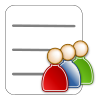
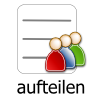
Texte in button eingefügt, wie josef das wollte

diff --git a/src-pos/com/openbravo/pos/forms/JRootApp.java b/src-pos/com/openbravo/pos/forms/JRootApp.java
@@ -31,7 +31,7 @@ import java.util.UUID;
 import javax.swing.*;
 
 import com.openbravo.pos.printer.*;
-
+import com.openbravo.pos.sales.JPanelButtons;
 import com.openbravo.beans.*;
 
 import com.openbravo.basic.BasicException;
@@ -59,6 +59,7 @@ public class JRootApp extends JPanel implements AppView {
 	private DataLogicSystem m_dlSystem;
 
 	private Properties m_propsdb = null;
+	private Properties posprops;
 	private String m_sActiveCashIndex;
 	private Date m_dActiveCashDateStart;
 	private Date m_dActiveCashDateEnd;
@@ -254,6 +255,9 @@ public class JRootApp extends JPanel implements AppView {
 		 */
 		m_jHost.setText("<html>" + m_props.getHost() + " - " + sWareHouse + "<br>" + url);
 
+		// load properties for login button size
+		posprops = m_dlSystem.getResourceAsProperties("Window.Login");
+		
 		showLogin();
 
 		return true;
@@ -446,14 +450,25 @@ public class JRootApp extends JPanel implements AppView {
 				AppUser user = (AppUser) people.get(i);
 
 				JButton btn = new JButton(new AppUserAction(user));
+				
+				//JButton btn = new JPanelButtons(new AppUserAction(user));
+				
 				btn.applyComponentOrientation(getComponentOrientation());
 				btn.setFocusPainted(false);
 				btn.setFocusable(false);
 				btn.setRequestFocusEnabled(false);
 				btn.setHorizontalAlignment(SwingConstants.LEADING);
-				btn.setMaximumSize(new Dimension(150, 50));
-				btn.setPreferredSize(new Dimension(150, 50));
-				btn.setMinimumSize(new Dimension(150, 50));
+				/**
+				 * change user login buttons size
+				 */
+//				posprops.getProperty(key, defaultValue)
+				btn.setMaximumSize(new Dimension(Integer.parseInt(posprops.getProperty("login-img-width", "150")),Integer.parseInt(posprops.getProperty("login-img-height", "50"))));
+				btn.setPreferredSize(new Dimension(Integer.parseInt(posprops.getProperty("login-img-width", "150")),Integer.parseInt(posprops.getProperty("login-img-height", "50"))));
+				btn.setMinimumSize(new Dimension(Integer.parseInt(posprops.getProperty("login-img-width", "150")),Integer.parseInt(posprops.getProperty("login-img-height", "50"))));
+				
+//				btn.setMaximumSize(new Dimension(150, 50));
+//				btn.setPreferredSize(new Dimension(150, 50));
+//				btn.setMinimumSize(new Dimension(150, 50));
 
 				jPeople.add(btn);
 			}

diff --git a/src-pos/com/openbravo/pos/sales/JPanelButtons.java b/src-pos/com/openbravo/pos/sales/JPanelButtons.java
@@ -150,7 +150,7 @@ public class JPanelButtons extends javax.swing.JPanel {
         return events.get(key);
     }
     
-    private class ConfigurationHandler extends DefaultHandler {       
+    private class ConfigurationHandler extends DefaultHandler {     
         @Override
         public void startDocument() throws SAXException {}
         @Override

diff --git a/src-pos/com/openbravo/pos/sales/restaurant/Place.java b/src-pos/com/openbravo/pos/sales/restaurant/Place.java
@@ -19,6 +19,7 @@
 
 package com.openbravo.pos.sales.restaurant;
 
+import java.awt.Color;
 import java.awt.Dimension;
 import javax.swing.Icon;
 import javax.swing.ImageIcon;
